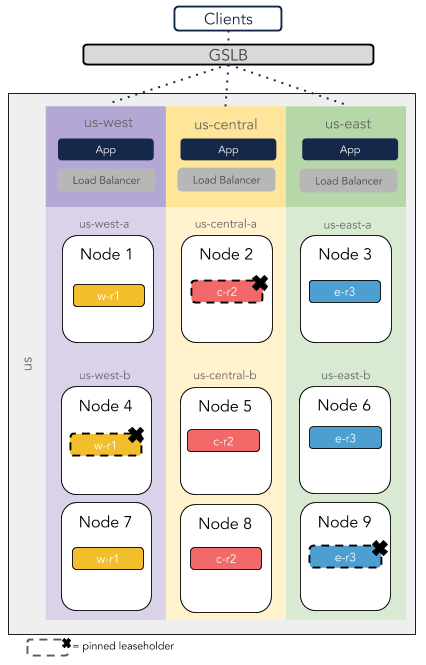
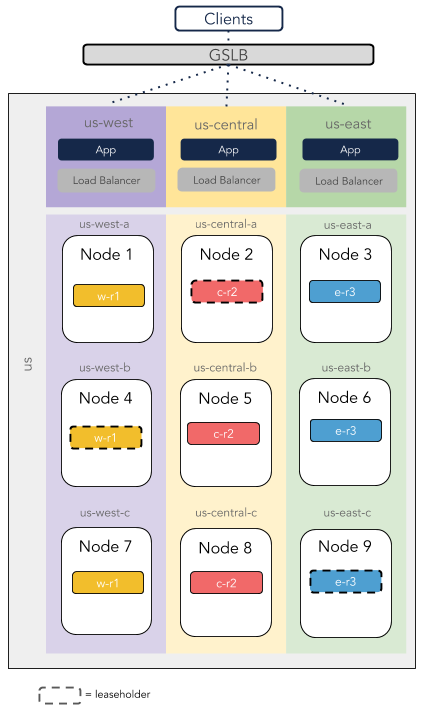
Edits based on Jesse's feedback.

diff --git a/v19.1/cluster-topology-patterns.md b/v19.1/cluster-topology-patterns.md
@@ -36,7 +36,6 @@ For the diagram above:
 - Leaseholders are denoted by a dashed line.
 - The 3 nodes are all running in a single datacenter.
 - The cluster is using the default replication factor of 3 (represented by 3 blocks of the same color). Each range (e.g., `r1`) has 3 replicas, with each replica on a different node.
-- All CockroachDB nodes communicate with each other
 
 **Availability expectations**
 
@@ -90,21 +89,19 @@ For this example:
     --locality=region=us-east,datacenter=us-east-b
     ~~~
 
-- The cluster is using a replication factor of 5 (represented by 5 blocks of the same color). Each range (e.g., `r1`) has 5 replicas, with each replica on a different node.
-- All CockroachDB nodes communicate with each other
-- Similar to the [single-datacenter](#single-region-clusters) topology, more regions can be added dynamically.
+- The cluster is using a replication factor of 3 (represented by 3 blocks of the same color). Each range (e.g., `r1`) has 3 replicas, with each replica on a different node.
 
 **Availability expectations**
 
 - If all of the nodes for a preferred locality are down, then the app will try datacenters in other localities.
 - The cluster can withstand a datacenter failure without losing a region because there are 2 nodes in each region.
-- The cluster can withstand a regional failure because even with 2 nodes down, each range retains a majority of its replicas (3/5). In general, multi-regions can help protect against natural disaster.
+- The cluster can withstand a regional failure because, with `--locality` specified on each node as shown above, the cluster balances each range across all 3 regions; with one region down, each range still has a majority of its replicas (2/3).
 
 **Performance expectations**
 
-- The latency numbers (e.g., `60ms`) in the first diagram represent network round-trip from one datacenter to another.
-- [Follow-the-workload](demo-follow-the-workload.html) will increase the speed for reads.
-- Write latencies will be as fast as the slowest quorum between 2 regions.
+- The latency numbers (e.g., `60ms`) in the first diagram represent network round-trip from one region to another.
+- For reads, if the gateway node (the node the app connects to) is in the region containing the leaseholder replica of the relevant range, latency should be around 2ms. If the gateway node is in a region that does not contain the leaseholder, the cluster will route the request to the node with the leaseholder in another region, that node will retrieve the data, and then the cluster will return the data to the gateway node. In this case, the network round-trips from one region to another will add latency. In some cases, [follow-the-workload](demo-follow-the-workload.html) will increase the speed for reads by moving the leaseholder closer to the application.
+- For writes, because a majority of replicas are always required to agree before a write is committed, latencies will be as fast as the slowest quorum between 2 regions.
 
 ### Multiple regions, more performant (with partitioning)
 
@@ -123,33 +120,55 @@ A multi-region cluster with partitioning has a similar setup as the [basic multi
 - 9 Nodes are spread across 3 regions (`us-west`, `us-central`, `us-east`) within a country (`us`).
 - A client connects to geographically close `app` server via `GSLB`.
 - Inside each region, an `app` server connects to one of the CockroachDB nodes within the region through a software-based `load balancer`.
-- Every region has 3 nodes across 2 datacenters (e.g., `us-west-a`, `us-west-b`). Note that most cloud providers only have 2 datacenters per region. Each node is started with the `--locality` flag to identify which region it is in:
+- Every region has 3 nodes across 3 datacenters (e.g., `us-west-a`, `us-west-b`, `us-west-c`). Note that most cloud providers only have 2 datacenters per region. Each node is started with the `--locality` flag to identify which region it is in:
 
     ~~~
     --locality=region=us-west,datacenter=us-west-a
     --locality=region=us-west,datacenter=us-west-b
+    --locality=region=us-west,datacenter=us-west-c
     --locality=region=us-central,datacenter=us-central-a
     --locality=region=us-central,datacenter=us-central-b
+    --locality=region=us-central,datacenter=us-central-c
     --locality=region=us-east,datacenter=us-east-a
     --locality=region=us-east,datacenter=us-east-b
+    --locality=region=us-east,datacenter=us-east-c
     ~~~
 
 - The cluster is using a replication factor of 3 (represented by the 3 blocks of the same color). Each range (e.g., `r1`) has a prefix (`w-` for West, `c-` for Central, `e-` for East), which denotes the partition that is replicated.
-- Leaseholders are denoted by a dashed line. Using [zone configurations](configure-replication-zones.html), leaseholders can be pinned (represented by the `x`) to a datacenter close to the users.
-- All CockroachDB nodes communicate with each other.
+- Leaseholders are denoted by a dashed line.
+- Tables are [partitioned](partitioning.html) at the row level by locality, for example:
 
-However, to make the cluster more performant, you need to add [partitions](partitioning.html) (an enterprise-only feature). In this example:
+    ~~~
+    > CREATE TABLE customers (
+        id INT DEFAULT unique_rowid(),
+        name STRING,
+        email STRING,
+        state STRING,
+        expected_graduation_date DATE,   
+        PRIMARY KEY (state, id))
+        PARTITION BY LIST (state) (
+          PARTITION west VALUES IN ('CA','OR','WA'[...]),
+          PARTITION central VALUES IN ('OH','IL','MI'[...]),
+          PARTITION east VALUES IN ('NY','MA','VA'[...]),
+          PARTITION DEFAULT VALUES IN (default)
+        );
+    ~~~
 
-- Tables are [partitioned](partitioning.html) at the row level by locality.
+    ~~~
+    > ALTER PARTITION west OF TABLE customers \
+        CONFIGURE ZONE USING constraints='[+region=us-west]';
+    ~~~
+
 - Partition replicas are distributed among the 3 nodes within each region.
+- Rows within each partition have their leaseholder constrained to a datacenter in the corresponding region. For more information, see [Define table partitions by list](partitioning.html#define-table-partitions-by-list).
 - Rows with the `region=us-west` partition have their leaseholder constrained to a `us-west-b` datacenter.
 - Rows with the `region=us-central` partition have their leaseholder constrained to a `us-central-a` datacenter.
 - Rows with the `region=us-east` partition have their leaseholder constrained to a `us-east-b` datacenter.
 
 **Availability expectations**
 
-- If a datacenter with 1 replica is lost, the cluster will not lose a region because there is a majority of replicas (2/3) in the region's other datacenter.
-- If a datacenter with 2 range is lost, the cluster will lose a region (i.e., data is unavailable) because there is only 1 range in the region's other datacenter. For more information, see the [Locality-resilience tradeoff](partitioning.html#locality-resilience-tradeoff) section of the [Define Table Partitions](partitioning.html) doc.
+- The cluster as a whole can withstand a regional failure because system-level ranges have their replicas balanced across regions. However, because user data is partitioning and pinned to specific regions, region-specific data will be unavailable during a regional failure.
+- Within a region, partitions pinned to the region will remain available as long as 2/3 datacenters are up.
 
 **Performance expectations**
 
@@ -162,7 +181,7 @@ However, to make the cluster more performant, you need to add [partitions](parti
 Anti-patterns are commonly used patterns that are ineffective or risky. Consider the following when choosing a cluster pattern:
 
 - Do not deploy to 2 datacenters. A cluster across 2 datacenters is not protected against datacenter failure and can lead to a [split-brain scenario](https://en.wikipedia.org/wiki/Split-brain_(computing)). For CockroachDB to work from a resiliency standpoint, it is best practice to deploy your cluster across 3 or more datacenters.
-- Do not deploy to regions with high network latency (e.g., `us-west`, `asia`, and `europe`) without using partitioning.
+- Do not deploy to regions with high network latency (e.g., `us-west`, `asia`, and `europe`) without using [partitioning](partitioning.html).
 - The cluster's replication factor does not need to be the same as the number of nodes in the cluster. In fact, as you scale your cluster, you should add nodes (but keep the replication factor at 5, for example) to improve performance. This is shown in the [Single datacenter, more resilient and/or performant](#single-datacenter-more-performant-and-or-resilient) section.
 
 <!-- ### High-Performance
